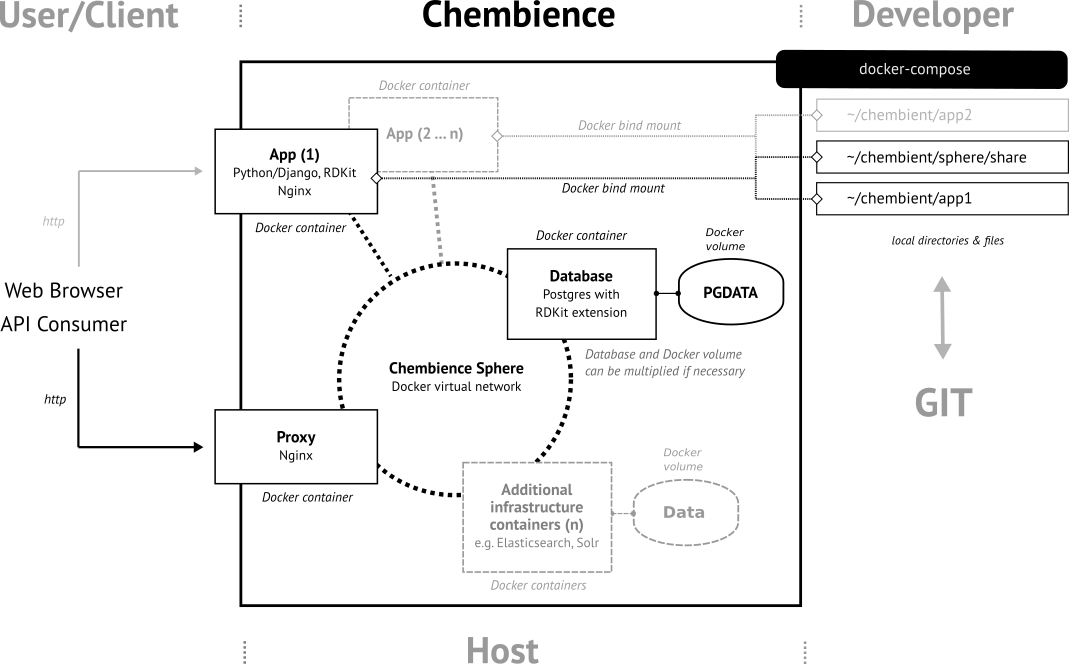
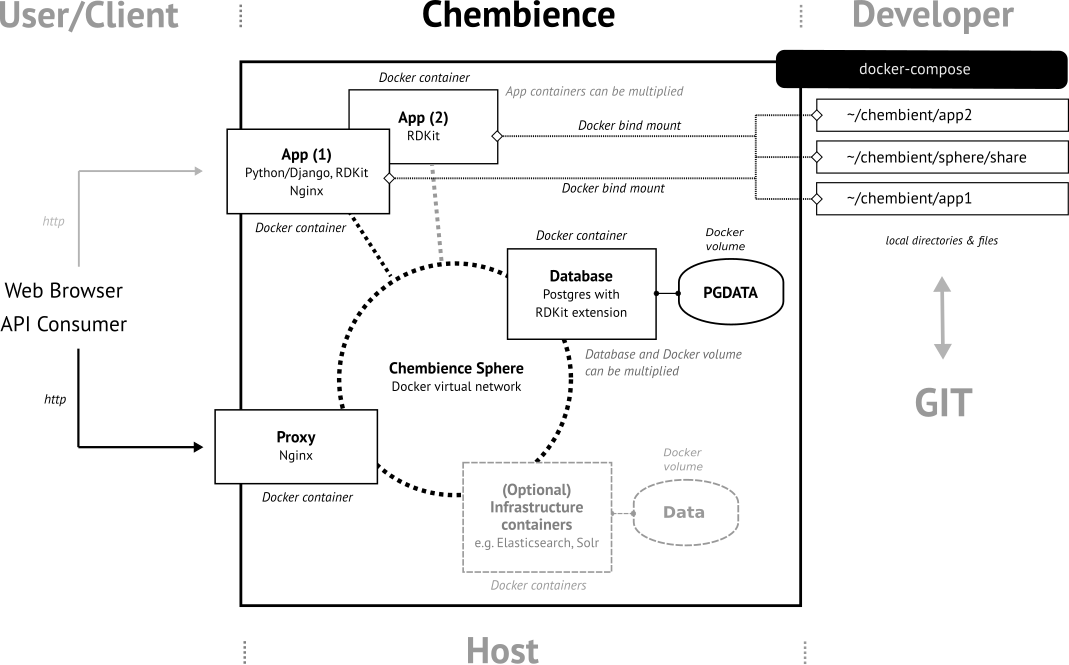
more documentation

diff --git a/README.rst b/README.rst
@@ -8,7 +8,7 @@ Overview
 web applications and microservices. At its current development stage, Chembience supports two types of base application
 containers: (1) a `Python <https://www.python.org/>`_/`Django <https://www.djangoproject.com/>`_/`Django REST framework <https://www.django-rest-framework.org/>`_
 -based container type which is specifically suited for the development of web-based applications, and (2) a Python shell-based container type which allows
-for the execution of script-based applications. Both base container types have pre-configured access to a Postgres databases
+for the execution of script-based applications. Both base container types have pre-configured access to a `Postgres <https://www.postgresql.org/>`_ databases
 system running in another Docker container. All containers including the database container have the `RDKit <http://www.rdkit.org/>`_  toolkit for building
 `chemoinformatics <https://en.wikipedia.org/wiki/Cheminformatics>`_-centric applications readily available (either as
 Python module or Postgres extension). The following schema provides an overview about Chembience.
@@ -28,9 +28,14 @@ other Web-accessible domain). This mechanism allows for easily bringing up addit
 ones.
 
 Creation and deployment of all Chembience containers is orchestrated by `docker-compose <https://docs.docker.com/compose/>`_.
-All Docker images required for starting up a Chembience container are either available from `Docker hub <https://docs.docker.com/docker-hub/>`_
+Any Docker images required for starting up a Chembience container are either available from `Docker hub <https://docs.docker.com/docker-hub/>`_
 (either as official package releases, third-party images, or images pre-build by me), or can be build locally on the user's
 host machine using Docker (docker-compose) build.
+
+All "Chembience App" containers can be easily added, multiplied, removed or reconfigured. After initialization of
+the Chembience base system (see below), the initially created app directories can be moved, renamed, or copied to create multiple,
+independent applications, each of which can be tracked on its own in a Git or other VCS repository. Also, if further
+infrastructure containers are needed (e.g. Solr, elasticsearch, ...) for a project, they can be easily added, too.
 
 Current release version of the most important packages are:
 
@@ -44,8 +49,8 @@ History
 -------
 
 The development of Chembience originally started as a component for the `InChI-Resolver <http://www.inchi-resolver.org/>`_
-project (the alpha version of which is currently in the process of being migrated from a predecessor version to the current
-version of Chembience).
+project (the alpha version of the InChI resolver is currently in the process of being migrated from a predecessor version
+of Chembience to the current version provided here).
 
 
 Requirements
@@ -54,17 +59,42 @@ Requirements
 Please have at least `Docker CE 17.09 <https://docs.docker.com/engine/installation/>`_ and `Docker Compose 1.17 <https://docs.docker.com/compose/install/>`_ installed on your system.
 
 
-Installation (needs update)
------------------------
+Quick Start Installation
+------------------------
 
-Clone this repository::
+Clone the repository::
 
-    https://github.com/markussitzmann/chembience.git chembience
+    https://github.com/chembience/chembience.git chembience
 
-go into directory ::
+and change into the newly created directory ::
 
     cd chembience/
 
+and run (it is important that you do this inside the chembience directory) ::
+
+    ./init
+
+This will start the download of all all required Chembience Docker images to your system and make take a while (download
+of circa 3.5GB of data from DockerHub). If this is successful a new directory ``chembient/`` is created in your
+home directory ::
+
+    cd ~/chembient
+
+Inside this directory you will find four subdirectories ::
+
+    django/
+    rdkit/
+    share/
+    sphere/
+
+The ``django/`` directory is home directory of the Django-based application, ``rdkit/`` the one of the RDKit-based
+application, the ``share/`` directory is home to all resources which should be available in all application containers,
+and the ``sphere/`` directory provides scripts related to all infrastructure ("Database" and "Proxy") containers.
+
+unfinished
+
+Installation unfinished
+------------
 and edit the file ``.env`` to appropriate settings, in particular, variable ``CHEMBIENCE_HOME`` to a file directory location where the user
 running the build in the next is allowed to create a directory. If the directory specified in ``CHEMBIENCE_HOME`` does not exist, it will be
 created during the first start up of a Docker container. It will be mounted as volume in all containers.
@@ -79,49 +109,3 @@ directory it is run)::
 This will build all Docker image files needed for Chembience.
 
 
-Bringing Chembience up
--------------------
-
-go back into the ``chembience`` directory::
-
-    cd ..
-
-and change into the ``bin`` directory and run ``docker-compose up``::
-
-    cd bin/
-    docker-compose up
-
-This will bring up all services defined in the file ``docker-compose.yml`` there and keep all database and search index containers running persistently.
-APPDOCK will run with the settings provided in ``appdock/.env``. Bringing APPDOCK down is performed by::
-
-    docker-compose down
-
-also in the ``bin`` directory. Any data stored in any databases or search indices will persist and will be available again after restarting the system
-with ``docker-compose up`` again.
-
-It is possible to change settings in the ``chembience/.env`` file while the system is down, however, PLEASE NOTE, this may have unwanted side effects.
-
-Some (already working) things
------------------------------
-
-================
-Starting a shell
-================
-
-with::
-
-    docker-compose run --rm shell
-
-If this is the first start-up of the shell container, the directory specified in ``APPDOCK_HOME`` will be created and mounted as a Docker volume.
-Inside the shell container, this directory is available under ``/home/chembience``.
-
-
-===============================
-Starting a database client psql
-===============================
-
-with::
-
-    docker-compose run --rm shell psql -h db -U chembience chembience
-
-Password is the one specified ``CHEMBIENCE_DB_PASSWORD`` in ``.env``.
